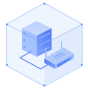
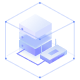
style: 优化图片

diff --git a/src/views/edge/Device/index.vue b/src/views/edge/Device/index.vue
@@ -55,7 +55,7 @@
                                 :height="88"
                                 :src="
                                     slotProps?.photoUrl ||
-                                    getImage('/device/instance/device-card.png')
+                                    getImage('/device-gateway.png')
                                 "
                             />
                         </template>

diff --git a/src/views/media/Cascade/index.vue b/src/views/media/Cascade/index.vue
@@ -45,7 +45,7 @@
                                 <img
                                     :src="
                                         getImage(
-                                            '/device/instance/device-card.png',
+                                            '/cascade.png',
                                         )
                                     "
                                 />

diff --git a/src/views/edge/Device/Save/index.vue b/src/views/edge/Device/Save/index.vue
@@ -178,7 +178,7 @@ const modelRef = reactive({
     id: undefined,
     name: '',
     describe: '',
-    photoUrl: getImage('/device/instance/device-card.png'),
+    photoUrl: getImage('/device-gateway.png'),
 });
 
 const vailId = async (_: Record<string, any>, value: string) => {
